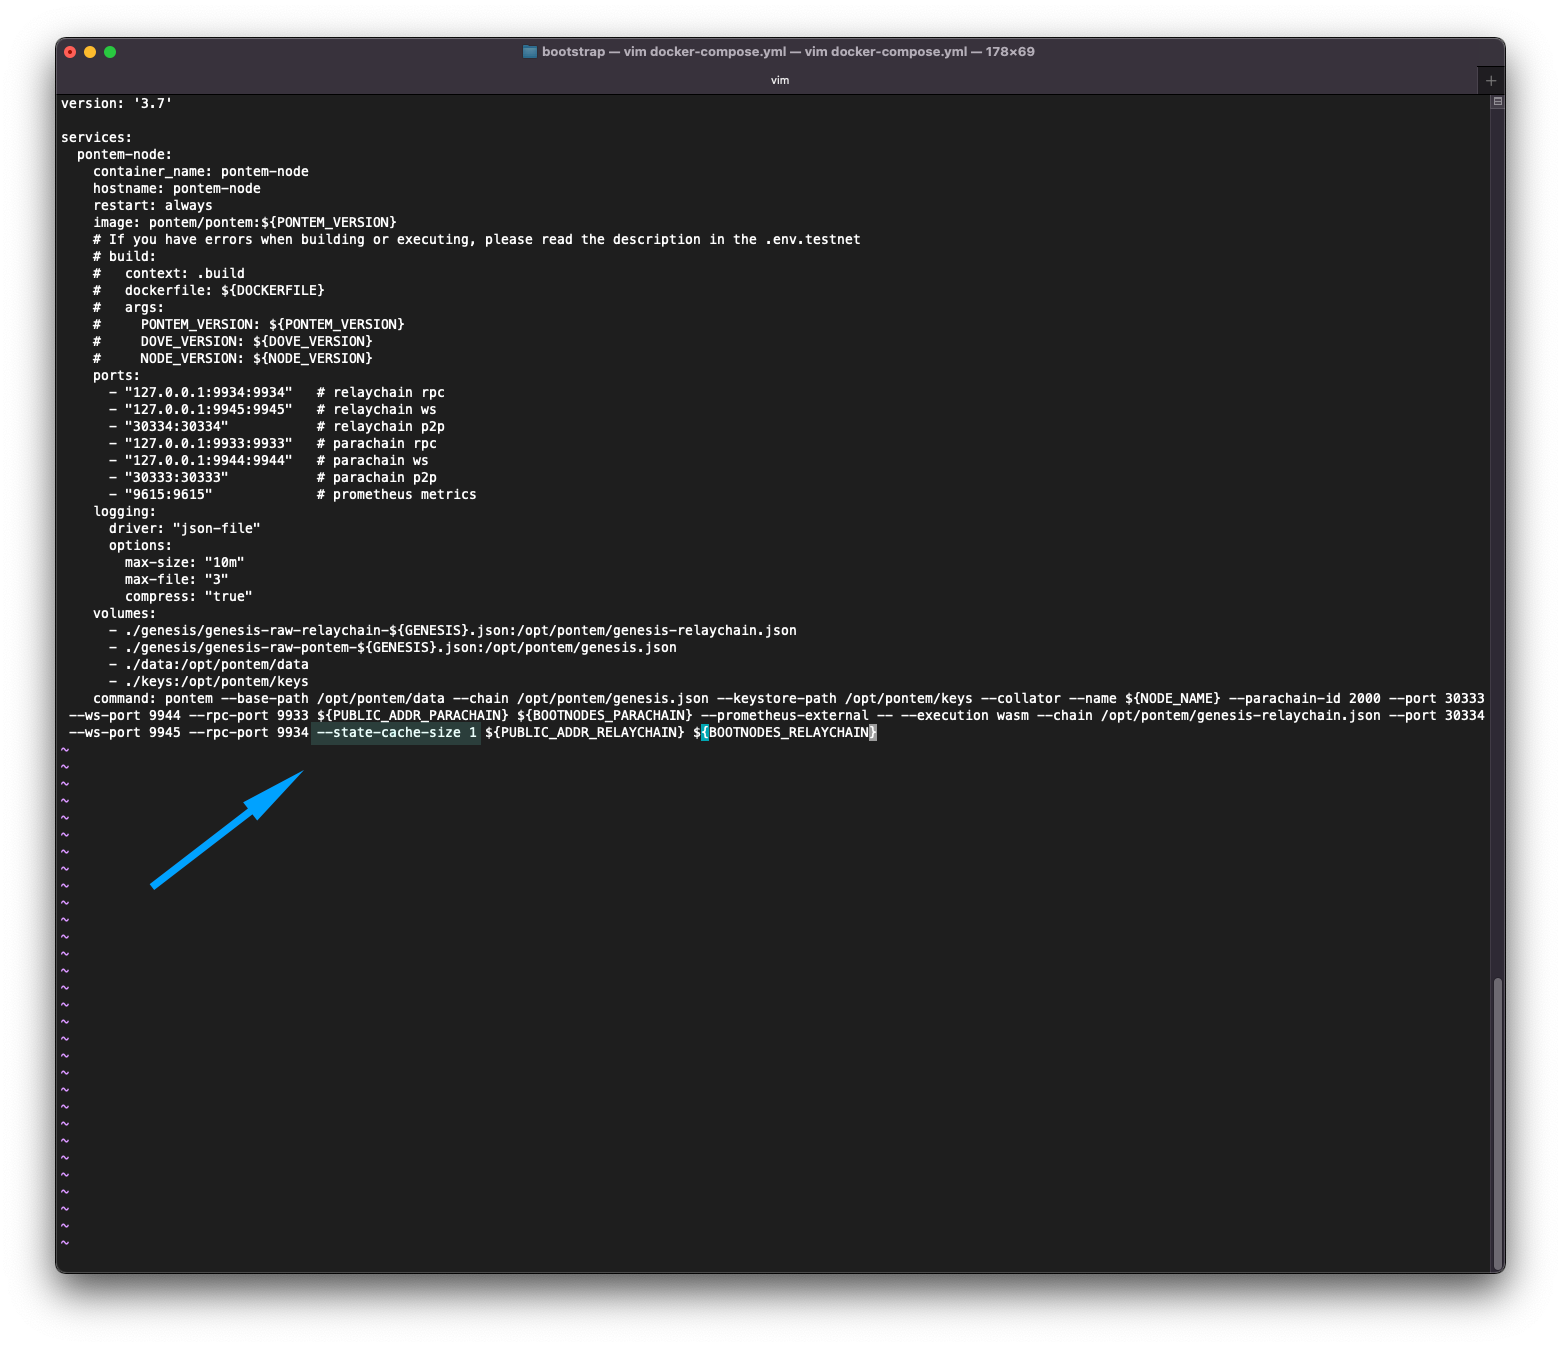
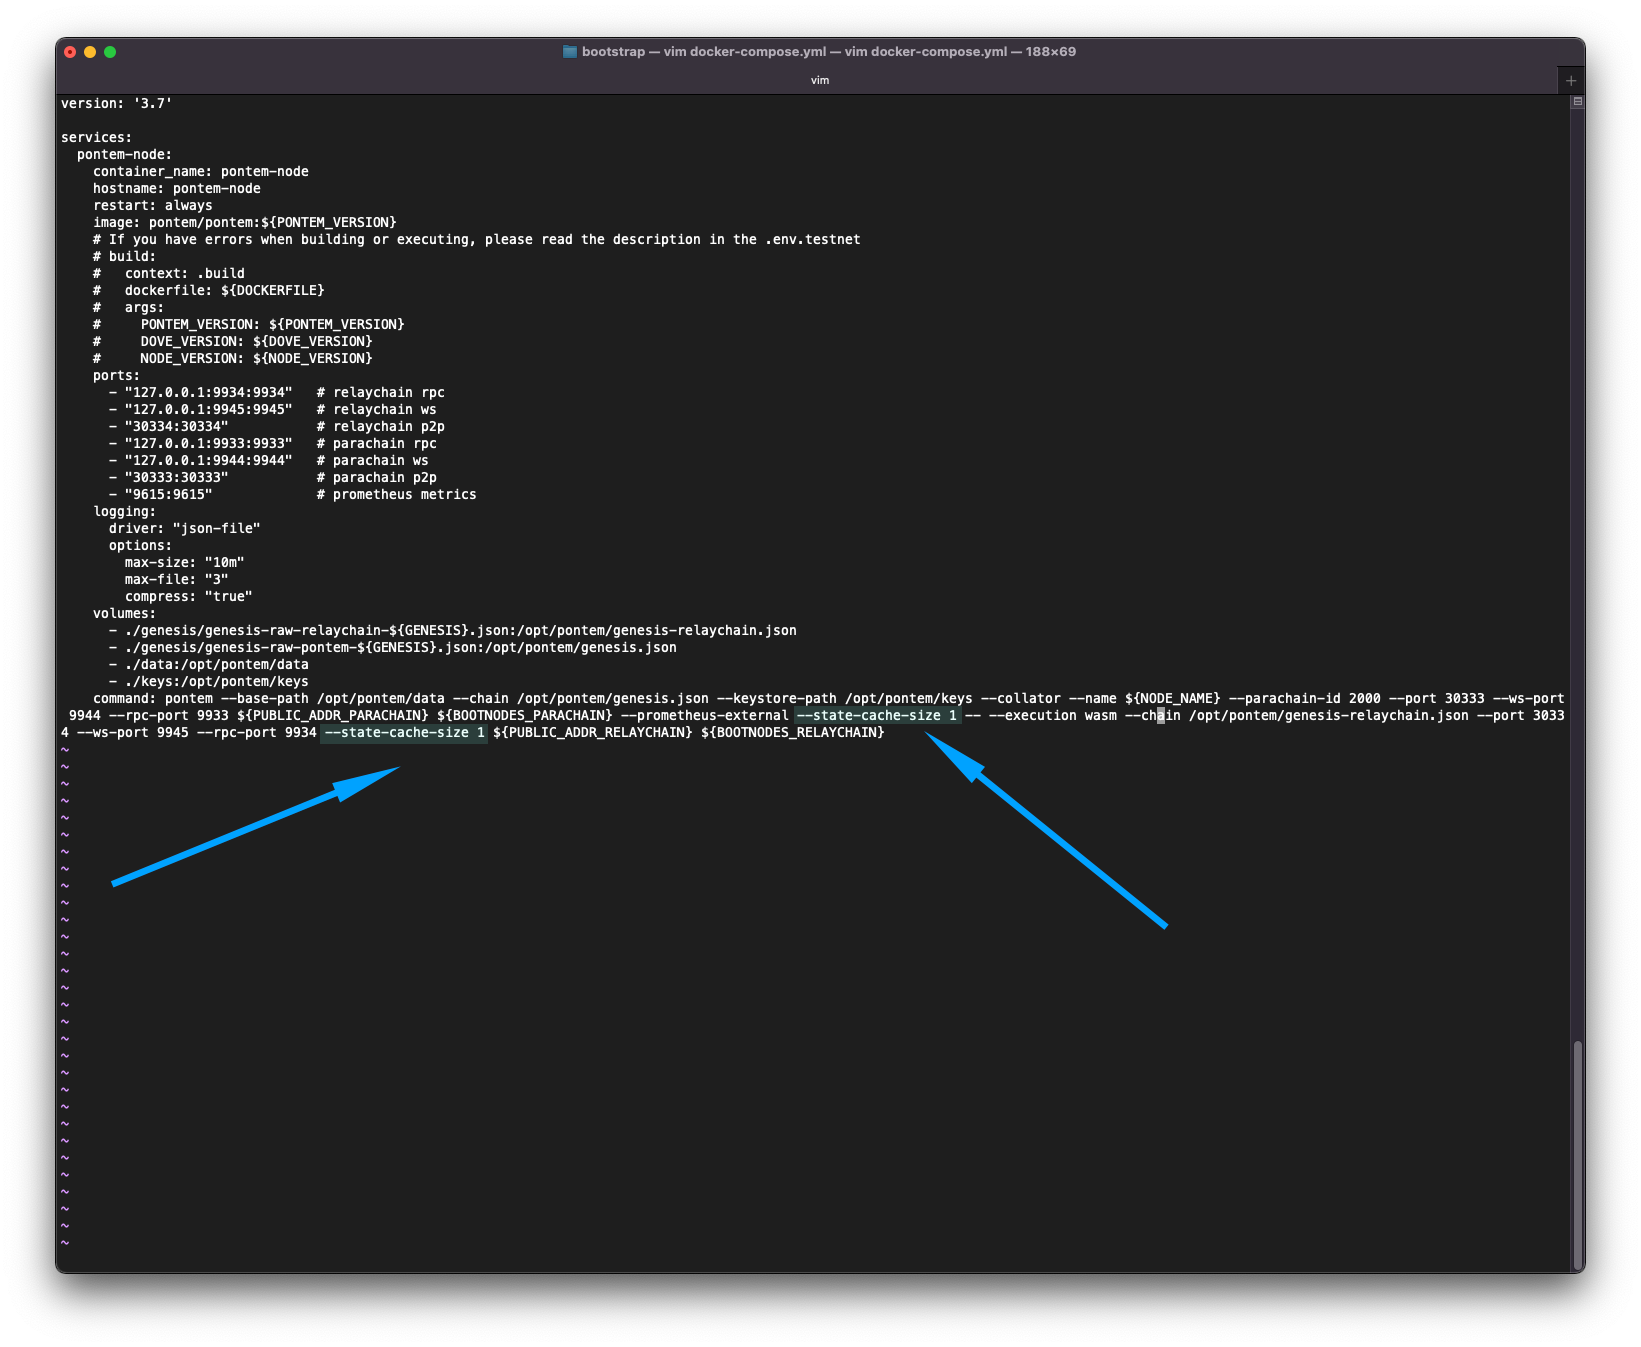
fix FAQ

diff --git a/staking/FAQ.md b/staking/FAQ.md
@@ -59,7 +59,7 @@
   vim docker-compose.yml
   ```
 
-  In the `command` section add `--state-cache-size 1`. It should look something like this:
+  In the `command` section twice add `--state-cache-size 1`. It should look something like this:
 
 ![Docker-compose.yml](/assets/storage-root-error.png "Docker-compose.yml")
 
